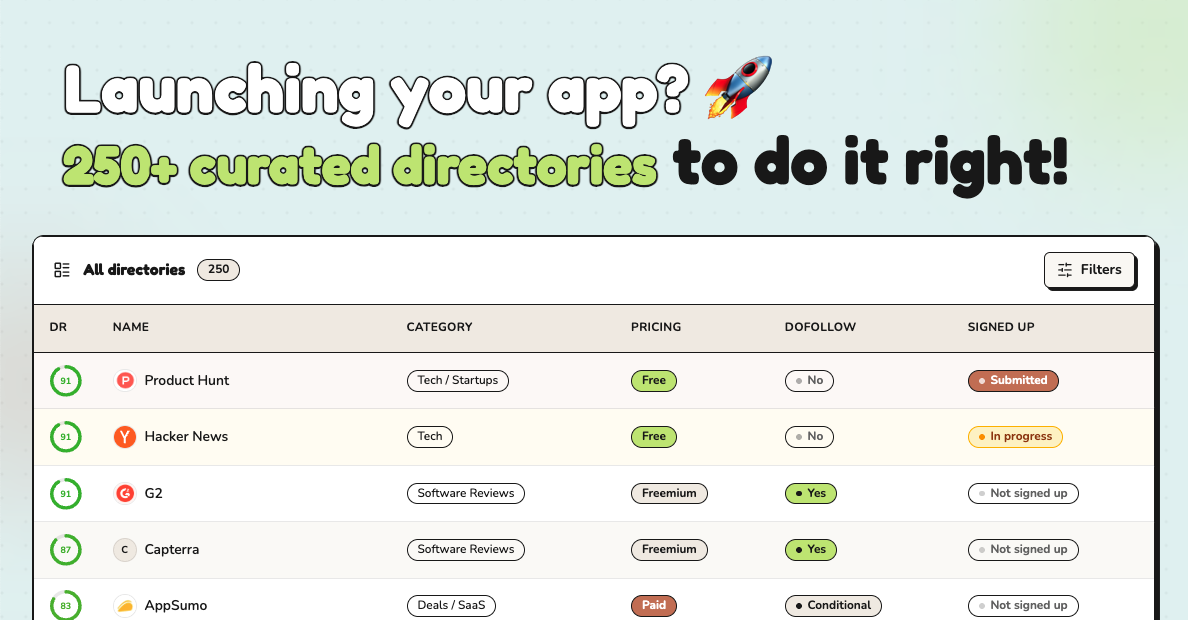
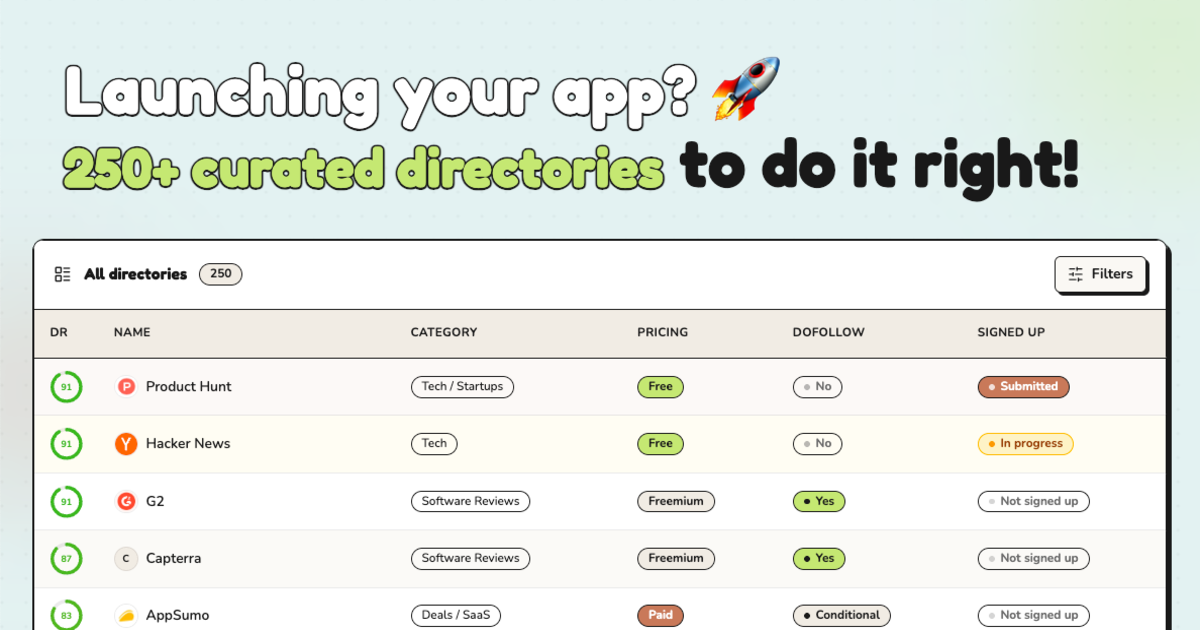
updated og-image

diff --git a/app/routes/home.tsx b/app/routes/home.tsx
@@ -22,7 +22,7 @@ type LoaderData = {
 const SEO_TITLE = "Donkey Directories Dashboard";
 const SEO_DESCRIPTION =
   "Discover 250+ launch directories, autofill submissions in one click, and track every listing from one dashboard.";
-const OG_IMAGE_URL = "https://www.donkey.directory/og/og-image.png?v=4";
+const OG_IMAGE_URL = "https://www.donkey.directory/og/og-image.png?v=6";
 const OG_IMAGE_ALT = "Donkey Directories — discover 250+ launch directories and track every listing in one place!";
 
 export function meta({}: Route.MetaArgs) {
@@ -50,8 +50,8 @@ export function meta({}: Route.MetaArgs) {
     { property: "og:locale", content: "en_US" },
     { property: "og:image", content: OG_IMAGE_URL },
     { property: "og:image:secure_url", content: OG_IMAGE_URL },
-    { property: "og:image:width", content: "1188" },
-    { property: "og:image:height", content: "620" },
+    { property: "og:image:width", content: "1200" },
+    { property: "og:image:height", content: "630" },
     { property: "og:image:alt", content: OG_IMAGE_ALT },
     { name: "twitter:card", content: "summary_large_image" },
     { name: "twitter:title", content: SEO_TITLE },
